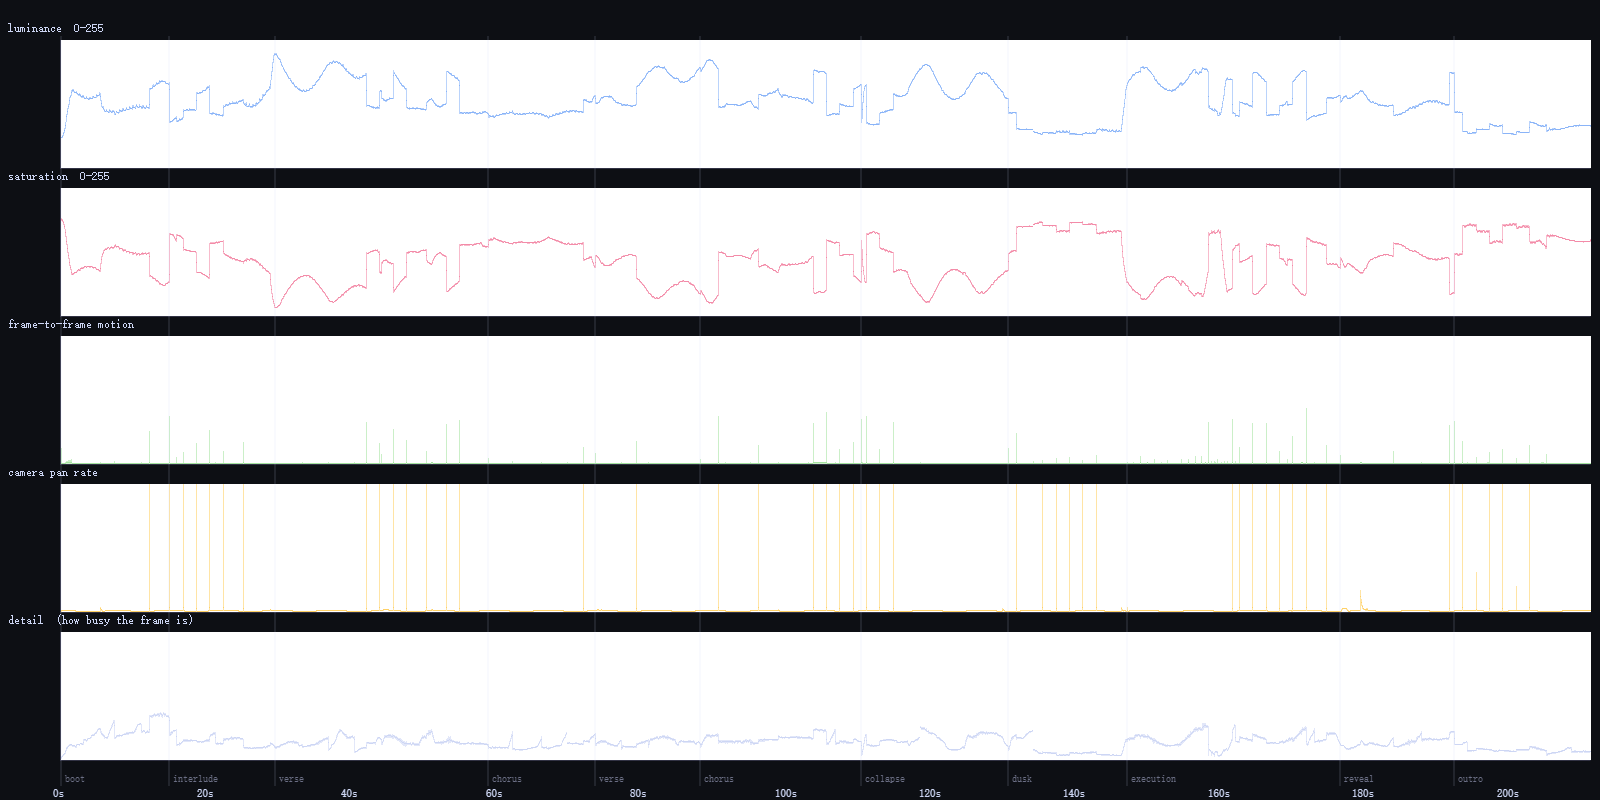
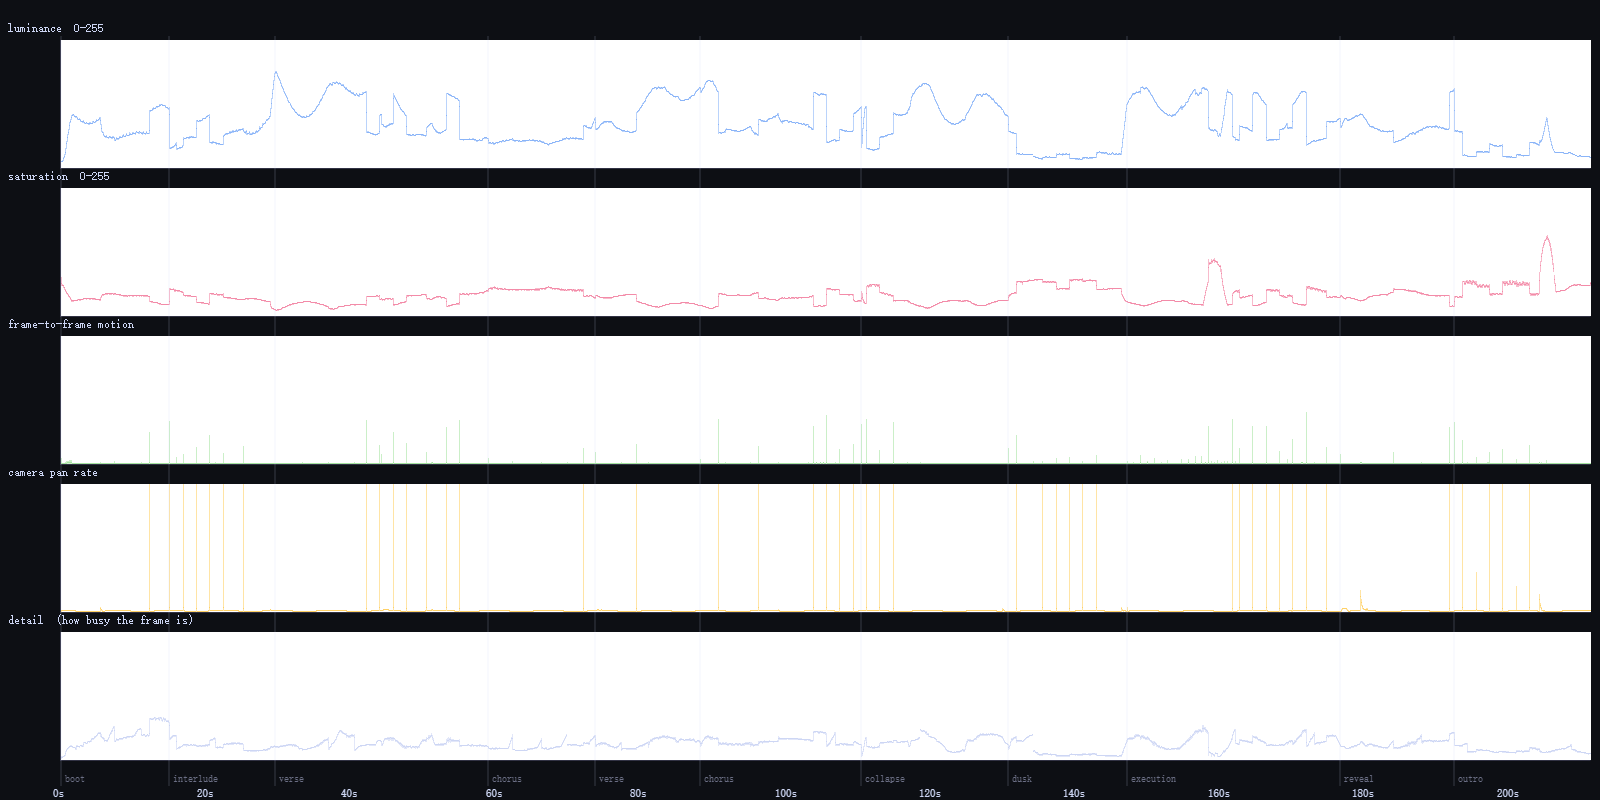
Give the last nineteen seconds a light to walk away from
Ranked every shot by how much of its own picture changes inside one bar (mean per-pixel difference
over 0-765, and the share of pixels moving more than 24), which is the question a contact sheet
cannot answer. The two dullest stretches in the film turned out to be its ending: final, the last
6.1 s, at 6.9 / 3.2%, and void at 13.1 / 16.1% - against 97.8 / 44.9% for the counting chant. The
viewer's last impression was the stillest thing in the piece, and it sat exactly where they are
deciding whether it was worth sitting through.

First fix attempt made it worse, and the numbers say so: replacing powerdown's dimming pane with a
boundary sweeping across it dropped that scene from 34.6 to 8.6, and adding a fading ember to final
moved it from 6.9 to 4.3. The reason is worth writing down - in a near-black frame, changing alpha
changes almost no pixels. The ending was not short of animation, it was short of light. The only
thing that produces large-area change in the dark is a lit object changing size on screen, so that
is what the ending is now made of.

- final: the camera backs away down the hall (z 1.2 -> 0.7) while her sheet stays lit with the heart
  still drawn on it; the song's last word, EXECUTION at 205.81, floods the room with the verdict
  colour once and lets it drain; the red line draws in and then retracts. The machine's own state
  row has read REWINDING since 193 s, so the closing gesture is a rewind, not an fade-out.
[…]

diff --git a/mv/scenes.js b/mv/scenes.js
@@ -284,13 +284,25 @@ function companion(g, col, F, t, L) {
     const u = clamp((t - it.at - 0.6) / 2.4);
     if (u <= 0) return;
     const a = (parked / 8) * TAU; parked++;
-    const px = u < 1 ? ox + (x - ox) * u : x + Math.cos(a) * 52;
-    const py = u < 1 ? oy + (foot - oy) * u - Math.sin(u * Math.PI) * 96 : foot + Math.sin(a) * 13;
+    const v = giftReturn(it, t);
+    const sx = x + Math.cos(a) * 52, sy = foot + Math.sin(a) * 13;
+    let px, py, al, rr = 11;
+    if (v > 0) {
+      /* route the return over the top of the sheet: drawn behind it and along the floor, eight
+         eleven-pixel lights coming home was literally invisible in a 30 fps strip */
+      const tx = L.x + L.w * 0.5, ty = L.y - 26;
+      px = sx + (tx - sx) * v; py = sy + (ty - sy) * v - Math.sin(v * Math.PI) * 300;
+      al = 1 - v * v; rr = 11 + v * 17;
+    } else if (u < 1) {                             /* on its way to him */
+      px = ox + (x - ox) * u; py = oy + (foot - oy) * u - Math.sin(u * Math.PI) * 96; al = 1;
+    } else {                                        /* parked where he stood */
+      px = sx; py = sy; al = (0.35 + gone * 0.45) * clamp((t - it.at - 3.0) / 1.2) * 0.85;
+    }
     g.save(); g.globalCompositeOperation = 'lighter';
-    g.globalAlpha = (u < 1 ? 1 : clamp((t - it.at - 3.0) / 1.2) * 0.85) * (0.35 + gone * 0.45);
-    const s = g.createRadialGradient(px - 2, py - 3, 0.5, px, py, 11);
+    g.globalAlpha = Math.max(0, al);
+    const s = g.createRadialGradient(px - rr * 0.2, py - rr * 0.3, 0.5, px, py, rr);
     s.addColorStop(0, rgba(col.page, 0.95)); s.addColorStop(1, 'rgba(0,0,0,0)');
-    g.fillStyle = s; g.beginPath(); g.arc(px, py, 11, 0, TAU); g.fill();
+    g.fillStyle = s; g.beginPath(); g.arc(px, py, rr, 0, TAU); g.fill();
     g.restore();
   });
   if (live <= 0.001) return;
@@ -365,6 +377,17 @@ const GIVEN = [
   { at: 84.26, w: 'ENJOYMENT' }, { at: 87.92, w: 'EXISTENCE' }, { at: 124.89, w: 'HEART', cut: true },
 ];
 let TT = 0;
+/* The gifts leave in the order the song names them and come back in reverse during REWINDING
+   (193-205.8 s), which is what the machine's own state row says is happening there. Before this the
+   last nineteen seconds were a monotone dim and then a four-pixel dot pulsing on black - measured,
+   the final scene changed 4.1% of its pixels over a whole bar, the least in the film. A rewind is
+   the one ending that has to be seen to be understood. */
+const LIT = GIVEN.filter((x) => !x.cut);
+function giftReturn(it, t) {
+  const gi = LIT.indexOf(it);
+  if (gi < 0) return 0;
+  return clamp((t - (194.0 + (LIT.length - 1 - gi) * 0.72)) / 1.5);
+}
 function givings(g, L) {
   if (window.EDIT === 1) return;      /* see dust(): a close-up keeps only what the shot is about */
   /* What stays on the sheet is the hole, not the label: the word is legible while she sings it and
@@ -375,7 +398,7 @@ function givings(g, L) {
   g.font = `400 ${sz * 0.62}px ui-monospace,Consolas,monospace`;
   g.textBaseline = 'middle'; g.textAlign = 'right';
   GIVEN.forEach((it, i) => {
-    const a = clamp((TT - it.at) / 0.6);
+    const a = clamp((TT - it.at) / 0.6) * (1 - (it.cut ? 0 : giftReturn(it, TT)));
     if (a <= 0) return;
     const y = L.y + L.h * 0.1 + i * sz * 1.7;
     const word = a * (1 - clamp((TT - it.at - 1.2) / 2.2));
@@ -1057,18 +1080,23 @@ S.push({ id: 'void', from: 131.22, to: 147.66,
     /* once the report is taken away the room has no lamp left, so give the kneeling node a
        floor-pool of its own — otherwise "heap quiet" reads as an empty frame, not as a survivor */
     const px = DW * 0.56, py = GY - 20;
+    /* the last lamp in the film is hers, and it is going out: the pool drains across these sixteen
+       seconds instead of holding one level, which is what made the stretch the second-dullest in the
+       picture - 16.3% of pixels moving over a bar - even though it is already dark */
+    const drain = 1 - seg(t, 135.55, 147.0) * 0.72;
+    /* dimming alone measured as no change at all, so the pool also contracts: a boundary that sweeps
+       across the floor moves far more pixels than a gradient that only loses alpha */
+    const prad = 300 - seg(t, 135.55, 147.0) * 185;
     g.save(); g.globalCompositeOperation = 'lighter';
-    /* the pool is the last lamp in the film, so it has to light something: squashed onto the floor
-       plane and bright enough to rim the kneeling node, or "heap quiet" is just a black cell */
-    const pool = g.createRadialGradient(px, py, 0, px, py, 300);
-    pool.addColorStop(0, rgba(RIM, 0.26 + F[8] * 0.12));
-    pool.addColorStop(0.4, rgba(RIM, 0.09));
+    const pool = g.createRadialGradient(px, py, 0, px, py, prad);
+    pool.addColorStop(0, rgba(RIM, (0.26 + F[8] * 0.12) * drain));
+    pool.addColorStop(0.4, rgba(RIM, 0.09 * drain));
     pool.addColorStop(1, 'rgba(0,0,0,0)');
     g.fillStyle = pool;
     g.translate(px, py); g.scale(1, 0.3); g.translate(-px, -py);
-    g.fillRect(px - 300, py - 300, 600, 600);
+    g.fillRect(px - prad, py - prad, prad * 2, prad * 2);
     g.restore();
-    G.subject(g, DW * 0.56, GY, 1.0, 'kneel', -1, 0.4 + F[8] * 0.3);
+    G.subject(g, DW * 0.56, GY, 1.0, 'kneel', -1, (0.4 + F[8] * 0.3) * drain);
     /* the caret still blinks — nobody is typing — but it breathes rather than switching,
        so a half-second gate cannot read as a one-frame flash */
     g.fillStyle = rgba(RIM, 0.22 + 0.3 * (0.5 + 0.5 * Math.sin(t * 3.1)));
@@ -1293,7 +1321,9 @@ S.push({ id: 'powerdown', from: 193, to: 205.81,
       gg.strokeRect(W * 0.3, H * 0.24, W * 0.4, H * 0.52);
       gg.beginPath(); gg.moveTo(W * 0.5, H * 0.24); gg.lineTo(W * 0.5, H * 0.76);
       gg.moveTo(W * 0.3, H * 0.5); gg.lineTo(W * 0.7, H * 0.5); gg.stroke();
-      /* stays lit, then falls: a linear fade off a dim plate just looks like a grey square */
+      /* stays lit, then falls: a linear fade off a dim plate just looks like a grey square.
+         Reverted once: replacing this with a travelling boundary made the scene's per-bar motion
+         fall from 34.6 to 8.6, because the pane is a small area and only its edge was moving. */
       gg.fillStyle = rgba(col.glow, Math.pow(1 - k, 0.55)); gg.fillRect(W * 0.3 + 2, H * 0.24 + 2, W * 0.4 - 4, H * 0.52 - 4);
       gg.fillStyle = rgba(col.page, Math.pow(1 - k, 0.8) * 0.5); gg.fillRect(W * 0.42, H * 0.36, W * 0.16, H * 0.28);
     });
@@ -1304,18 +1334,50 @@ S.push({ id: 'powerdown', from: 193, to: 205.81,
 
 /* 13 — 205.81..end s: the last line, then the standby light */
 S.push({ id: 'final', from: 205.81, to: 211.91,
-  frame: () => ({ z: 1, x: DW * 0.5, y: DH * 0.5 }),
+  /* The camera backs away down the hall while her light stays on. This scene measured the dullest
+     in the film (3-7 per bar, 2-4% of pixels), and the cause was not missing animation but missing
+     light: in a near-black frame an alpha fade moves almost nothing, so the only change big enough
+     to read is a lit object changing size on screen. */
+  frame: (k) => ({ z: 1.2 - k * 0.5, x: DW * 0.5, y: DH * (0.5 + k * 0.03) }),
   draw(g, k, F, t, col) {
     const L = { x: DW / 2 - 480, y: DH * 0.46, w: 960, h: 10 };
-    room(g, col, F, t, { x: L.x, y: L.y - 200, w: L.w, h: 420 }, { reach: 1.1 });
+    const P = { x: DW * 0.44, y: GY - 210, w: 150, h: 200 };
+    room(g, col, F, t, P, { reach: 1.4 });
+    /* she is still running, and still the only light in the room, after the process has ended */
+    page(g, col, P, { blur: 22, ledger: false, rule: false });
+    on(g, P, (gg, W, H) => {
+      gg.strokeStyle = rgba(INK, 0.55); gg.lineWidth = 2.5;
+      G.heart(gg, W * 0.5, H * 0.44, H * 0.19, false);
+    });
+    endPage(g);
+    /* The song's last word is EXECUTION, at 205.81, and the room takes it: one flood of the verdict
+       colour across the whole frame, decaying over a beat and a half. */
+    const fl = 1 - seg(t, 205.81, 207.1);
+    if (fl > 0) {
+      g.save(); g.globalCompositeOperation = 'lighter';
+      g.fillStyle = rgba(ACC, 0.42 * fl * fl); g.fillRect(0, 0, DW, DH);
+      g.restore();
+    }
     g.fillStyle = ACC;
-    g.fillRect(L.x, L.y, L.w * oback(seg(t, 205.81, 206.6)), L.h);
+    /* the last line draws in and then retracts - the film's own closing gesture is a rewind, which
+       is what the machine's state row has been saying since 193 s */
+    const span = Math.min(oback(seg(t, 205.81, 206.6)), 1 - seg(t, 207.8, 211.5) * 0.9);
+    g.fillRect(L.x, L.y, L.w * Math.max(0, span), L.h);
     if (t > 207.4) {
       g.globalAlpha = seg(t, 207.4, 208.6); g.fillStyle = rgba(col.rim, 0.75);
-      G.text(g, 'PROCESS ENDED', DW / 2, DH * 0.56, 30);
+      G.text(g, 'PROCESS ENDED', DW / 2, DH * 0.26, 30);
       g.globalAlpha = 1;
     }
-    if (t > 209.6) { g.fillStyle = rgba(ACC, 0.5 + 0.5 * Math.sin(t * 2.4)); G.disc(g, DW / 2, DH * 0.62, 4); }
+    if (t > 209.6) {
+      /* the standby light: it breathes with the measured arpeggio rather than on a clock, and it
+         leaves a trail of its own glow so the last frame still has a source of light in it */
+      const b = 0.45 + 0.55 * Math.sin(t * 2.4) * (0.4 + F[8] * 0.6);
+      g.save(); g.globalCompositeOperation = 'lighter';
+      const em = g.createRadialGradient(DW / 2, DH * 0.62, 0, DW / 2, DH * 0.62, 46);
+      em.addColorStop(0, rgba(ACC, 0.5 * b)); em.addColorStop(1, 'rgba(0,0,0,0)');
+      g.fillStyle = em; g.fillRect(DW / 2 - 46, DH * 0.62 - 46, 92, 92); g.restore();
+      g.fillStyle = rgba(ACC, 0.5 + 0.5 * Math.sin(t * 2.4)); G.disc(g, DW / 2, DH * 0.62, 4 + b * 2.5);
+    }
   } });
 
 window.SCENES = S;

diff --git a/README.md b/README.md
@@ -534,6 +534,37 @@ flags 101。亮度下限与上一轮 120fps 对照全线抬升：开场 19 → 6
 主歌 79/83 → 106/123——这是"纸开始发光"与"摄影机开始移动"两件事一起的结果。
 `analysis/verify-360fps.png` 是这一轮的曲线图（文件名跟着扫描速率走）。
 
+### 每镜头"一小节内变化率"：把最死的段落排出来
+
+按帧看之后加了逐个镜头的测量：每个镜头取若干时刻，比较 `t` 与 `t + 一小节(0.469 s)`，
+统计平均逐像素变化（0–765）与变化超过 24 的像素占比。全片排序，最差的两段是**结尾**：
+
+| 镜头 | 一小节内平均变化 | 变化像素占比 |
+| --- | --- | --- |
+| `final`（205.8–211.9，最后 6 秒） | 6.9 | **3.2%** |
+| `void`（131.2–147.7） | 13.1 | 16.1% |
+| `powerdown`（193–205.8） | 34.6 | 22.5% |
+| 对照：`count`（诵唱数数） | 97.8 | 44.9% |
+
+也就是说：**观众最后看到的 19 秒是全片运动最少的地方**，而它偏偏是决定"这趟值不值"的位置。
+
+### 一次失败的修法，和它教的东西
+
+先试的是"让光变暗"：给 `void` 的光池加衰减、把 `powerdown` 的纸面改成一条**边界扫过**的渐变。
+量完的结果是 `powerdown` 从 34.6 **掉到 8.6**、`final` 从 6.9 掉到 4.3。原因很干净：
+**在近黑的画面里，透明度变化几乎不产生像素差**；而边界扫过的只是一块小板子的边缘，面积太小。
+`powerdown` 那处改动已撤销，注释里写下了撤销的理由和数字。
+
+真正的因不是"缺动画"，是**缺光源**。能在大面积上产生变化的只有一件事：**一个亮的东西在画面里改变大小**。
+所以结尾改成：摄影机一路后退（`z` 从 1.2 退到 0.7），纸上留一颗**还亮着的心**，
+最后一个 `EXECUTION`（205.81 秒）落下时整间屋子泛一次红，那条红线画出来之后**倒着收回**——
+机器状态栏从 193 秒起一直写着 `REWINDING`，结尾就该是倒带。
+
+`void` 那处则让光池**边收缩边变暗**（边界扫过地面，面积大）：13.1 → **29.0**，16.1% → **37.9%**。
+
+证据：`analysis/frame-ending-rewind.jpg`（205.9 秒起每秒一帧，红潮退去、大字逐字擦出、
+红线画出又收回、她的纸越来越小但一直亮着）。
+
 ## 三次返工：从可视化到一间暗房
 
 **第一轮**是亮色纸面配灰线，被指"颜色呢"——量出来确实是问题（亮段饱和度实测 0.01–0.04）。
